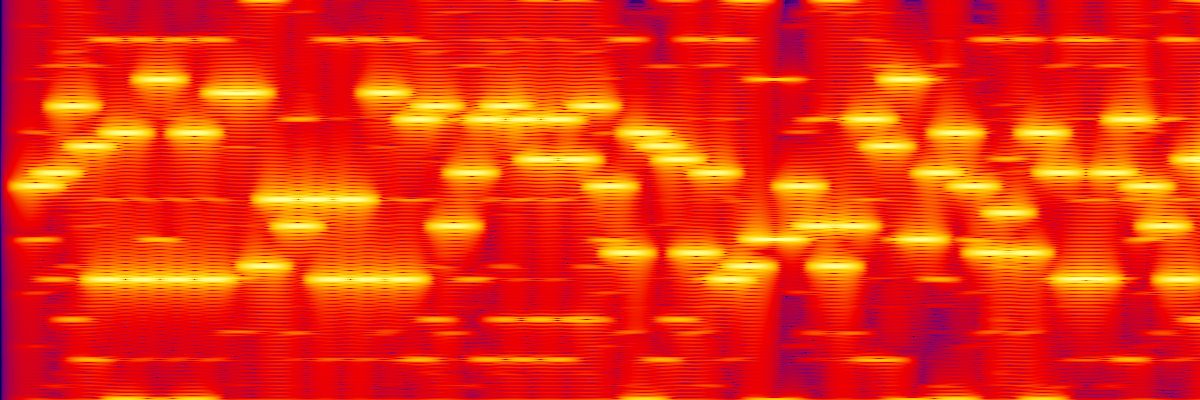
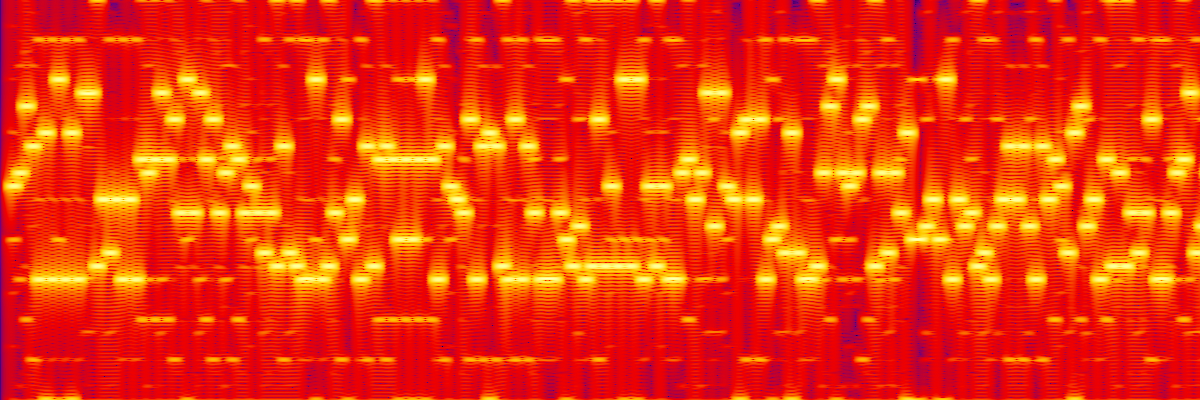
feat: add custom output filenames, include demo WAV, update spectrogram, improve README and fix output handling

diff --git a/src/main.py b/src/main.py
@@ -6,6 +6,7 @@ from codec import encode, decode, compareSha256
 
 ENCODE_OUTPUT = getcwd() + "/out/"
 DECODE_OUTPUT = getcwd() + "/recovered/"
+DEFAULT_NAME = "encoded"
 
 def file_path(path):
     if isfile(path):
@@ -21,6 +22,7 @@ def main():
     enc = options.add_parser("encode", help="Encodes a file to a .wav file")
     enc.add_argument("infile", type=file_path, help="The file to encode.")
     enc.add_argument("-o", "--outdir", help="The output folder where the result will be saved")
+    enc.add_argument("--name", default=DEFAULT_NAME, help="Output WAV filename (default: encoded.wav)")
 
     dec = options.add_parser("decode", help="Decodes a .wav file that was encoded by WavStore.")
     dec.add_argument("infile", type=file_path, help="The file to decode.")
@@ -33,9 +35,9 @@ def main():
     args = parser.parse_args()
 
     match args.option:
-        case "encode":  encode(args.infile, out=args.outdir or ENCODE_OUTPUT)
+        case "encode":  encode(args.infile, out=args.outdir or ENCODE_OUTPUT, name=args.name or DEFAULT_NAME)
         case "decode":  decode(args.infile, out=args.outdir or DECODE_OUTPUT)
-        case "compare": print({"The files match!" if compareSha256(args.file1, args.file2) else "The files don't match!"})
+        case "compare": print("The files match!" if compareSha256(args.file1, args.file2) else "The files don't match!")
         case _:         parser.print_usage()
 
 

diff --git a/src/codec.py b/src/codec.py
@@ -78,13 +78,13 @@ def decode(path, out):
         print(e)
         return
 
-    Path(out).mkdir(exist_ok=True)
+    Path(out).mkdir(exist_ok=True, parents=True)
     fpath = Path(out, Path(name).name)
     fpath.write_bytes(data)
 
     print(f"Recovered file can be found at {fpath.absolute()}  \n(sha256 checksum): {checksum(data)}")
 
-def encode(path, out):
+def encode(path, name, out):
     data = zlib.compress(pack(Path(path)), level=9)
     
     samples = []
@@ -93,7 +93,7 @@ def encode(path, out):
         samples.append(byte_to_freq(byte & 0x0F))
 
     Path(out).mkdir(exist_ok=True)
-    fpath = Path(out, "encoded.wav")
+    fpath = Path(out, name.removesufix(".wav") + ".wav")
 
     print("\nEncoding your file. Please wait...")
     with sf.SoundFile(fpath, "w", samplerate=SAMPLE_RATE, channels=1, subtype="PCM_U8") as f:

diff --git a/README.md b/README.md
@@ -7,7 +7,7 @@ WavStore takes a file and turns it into a `.wav` made up of pure sine waves. It 
 
 <img src="docs/spectrogram.png" alt="Spectrogram of a WavStore carrier" width="600">
 
-*Spectrogram of `samples/encoded.wav`.*
+*Spectrogram of `docs/demo.wav`.*
 
 ## Try it in two minutes
 
@@ -32,10 +32,10 @@ chmod +x wavstore-linux
 
 ### 2. Try the demo
 
-There's already a file hidden inside `samples/demo.wav`. To get it back, run:
+There's already a file hidden inside `docs/demo.wav`. To get it back, run:
 
 ```bash
-wavstore decode samples/demo.wav -o recovered/
+wavstore decode docs/demo.wav -o recovered/
 ```
 
 ### 3. Encode a file
@@ -43,8 +43,8 @@ wavstore decode samples/demo.wav -o recovered/
 You can encode any file and then decode it again:
 
 ```bash
-wavstore encode myfile.pdf -o out/
-wavstore decode out/encoded.wav -o back/
+wavstore encode myfile.pdf -o out/ --name myfile
+wavstore decode out/myfile.wav -o recovered/
 ```
 
 ### 4. Check the result
@@ -52,7 +52,7 @@ wavstore decode out/encoded.wav -o back/
 To make sure everything worked, compare the original file with the recovered one:
 
 ```bash
-wavstore compare myfile.pdf back/myfile.pdf
+wavstore compare myfile.pdf recovered/myfile.pdf
 ```
 
 This compares their SHA-256 hashes and tells you whether the files are identical.
@@ -128,7 +128,7 @@ pip install -r requirements.txt
 You can then run the commands directly through Python:
 
 ```bash
-python src/main.py encode <input-file> -o <output-dir>
+python src/main.py encode <input-file> -o <output-dir> --name <output-name>
 python src/main.py decode <input.wav> -o <output-dir>
 python src/main.py compare <original-file> <recovered-file>
 ```
@@ -141,9 +141,9 @@ WavStore/
 │   └── workflows/
 │       └── release.yml     # Builds executables for Windows, macOS and Linux
 ├── docs/
-├── samples/
 |   ├── ...
-│   └── encoded.wav         # Carrier containing a hidden file
+│   └── demo.wav            # Carrier containing a hidden file
+├── samples/
 ├── src/
 │   ├── main.py             # Command-line interface
 │   ├── codec.py            # Packing, unpacking, encoding and decoding
